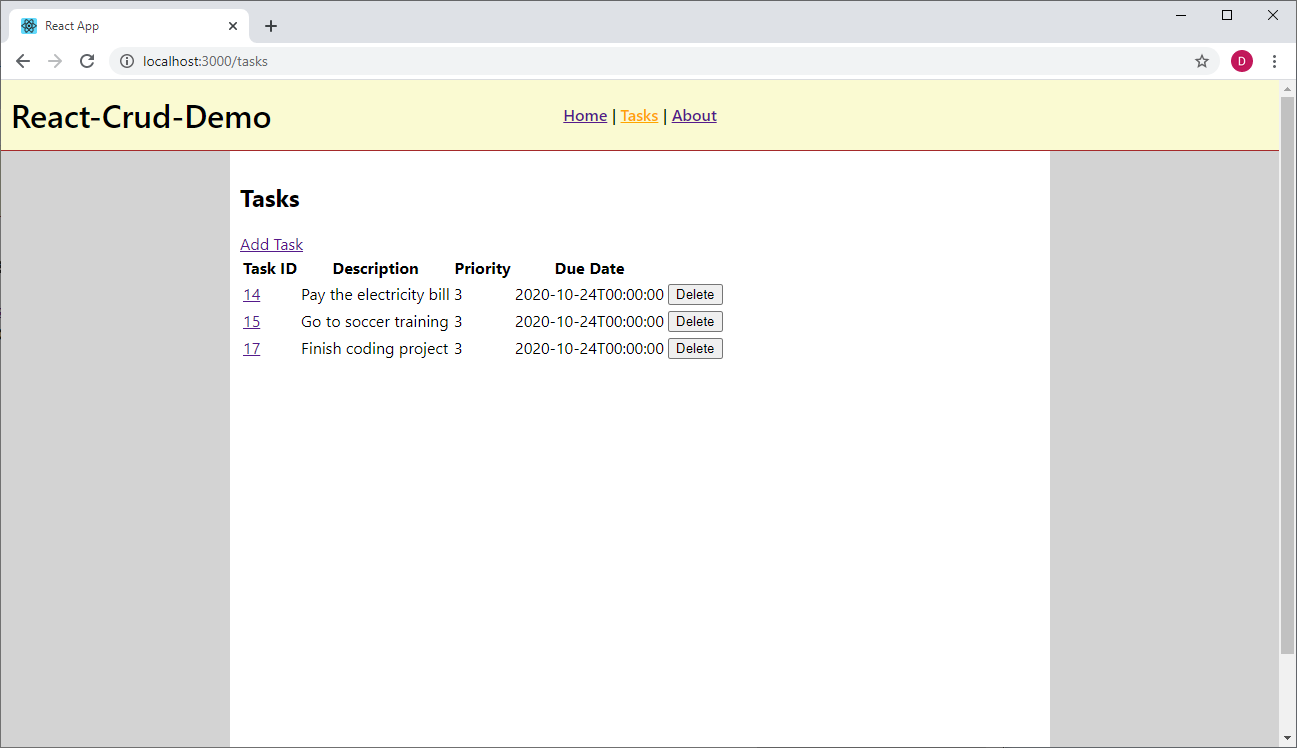
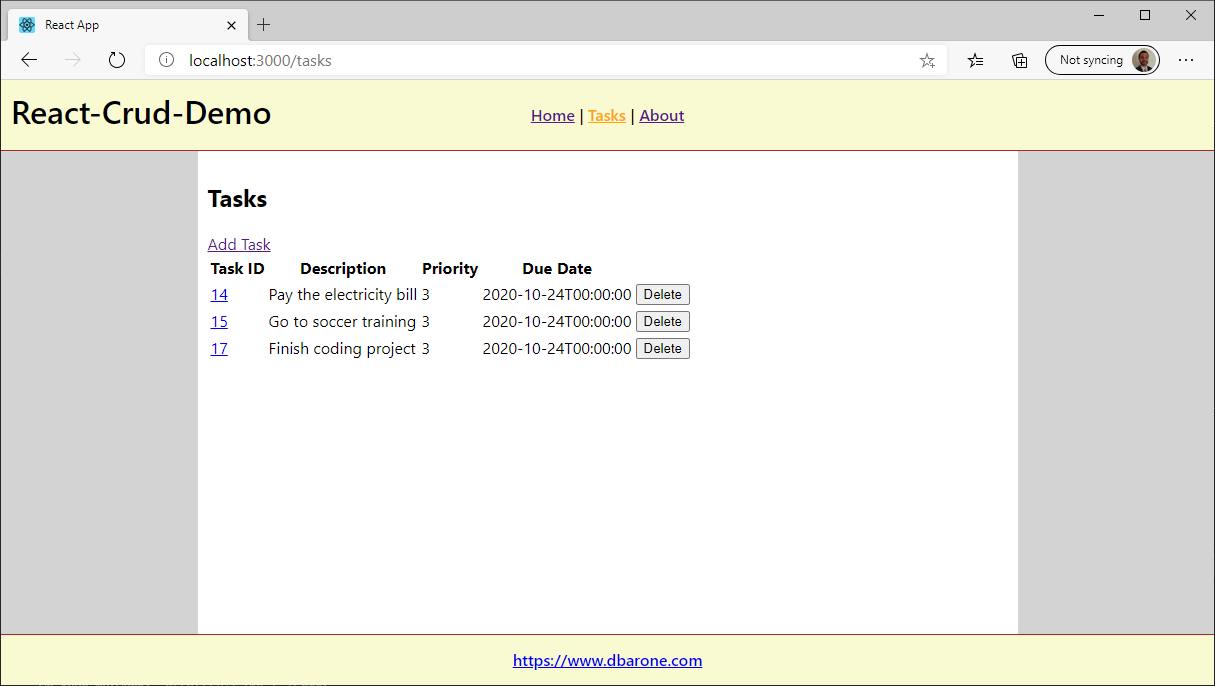
styling

Changed region(s): [[0.0, 0.0, 1.0, 1.0], [0.9745, 0.0, 1.0, 0.0612]]

diff --git a/src/react-crud-demo-ui/src/components/app/App.css b/src/react-crud-demo-ui/src/components/app/App.css
@@ -10,6 +10,8 @@ html {
 .App {
   height: 100%;
   background-color: lightgray;
+  display: flex;
+  flex-direction: column;
 }
 
 label {
@@ -31,11 +33,21 @@ header {
   text-align: center;
 }
 
+footer {
+  background: lightgoldenrodyellow;
+  height: 30px;
+  line-height: 30px;
+  border-top: 1px solid brown;
+  padding: 10px;
+  font-weight: 600;
+  text-align: center;
+}
+
 .mainContainer {
   width: 800px;
   margin: 0px auto;
   border: 10px;
   background-color: white;
   padding: 10px;
-  height: 100%;
+  flex: 1 1 auto;
 }

diff --git a/src/react-crud-demo-ui/src/components/app/App.js b/src/react-crud-demo-ui/src/components/app/App.js
@@ -7,6 +7,7 @@ import About from "../AboutPage/AboutPage"
 import TasksPage from '../TasksPage/TasksPage';
 import TaskPage from '../TaskPage/TaskPage';
 import Header from "../Header/Header"
+import Footer from "../Footer/Footer"
 
 function App() {
   return (
@@ -22,6 +23,7 @@ function App() {
             <Route path="/about" exact component={About} />
           </Switch>
         </div>
+        <Footer />
       </Router>
     </div>
   );

diff --git a/src/react-crud-demo-ui/src/components/Header/Header.js b/src/react-crud-demo-ui/src/components/Header/Header.js
@@ -5,7 +5,7 @@ function Header() {
     return (
         <>
             <header>
-                <div style={{ position: "absolute", top: "10px", left: "10px", fontSize:"2em" }}>React-Crud-Demo</div>
+                <div style={{ position: "absolute", top: "6px", left: "10px", fontSize:"2em" }}>React-Crud-Demo</div>
                 <NavBar />
             </header>
         </>

diff --git a/src/react-crud-demo-ui/src/components/Footer/Footer.js b/src/react-crud-demo-ui/src/components/Footer/Footer.js
@@ -1,0 +1,13 @@
+import React from "react";
+
+function Footer() {
+    return (
+        <>
+            <footer>
+                <a href="https://www.dbarone.com">https://www.dbarone.com</a>
+            </footer>
+        </>
+    );
+}
+
+export default Footer;
